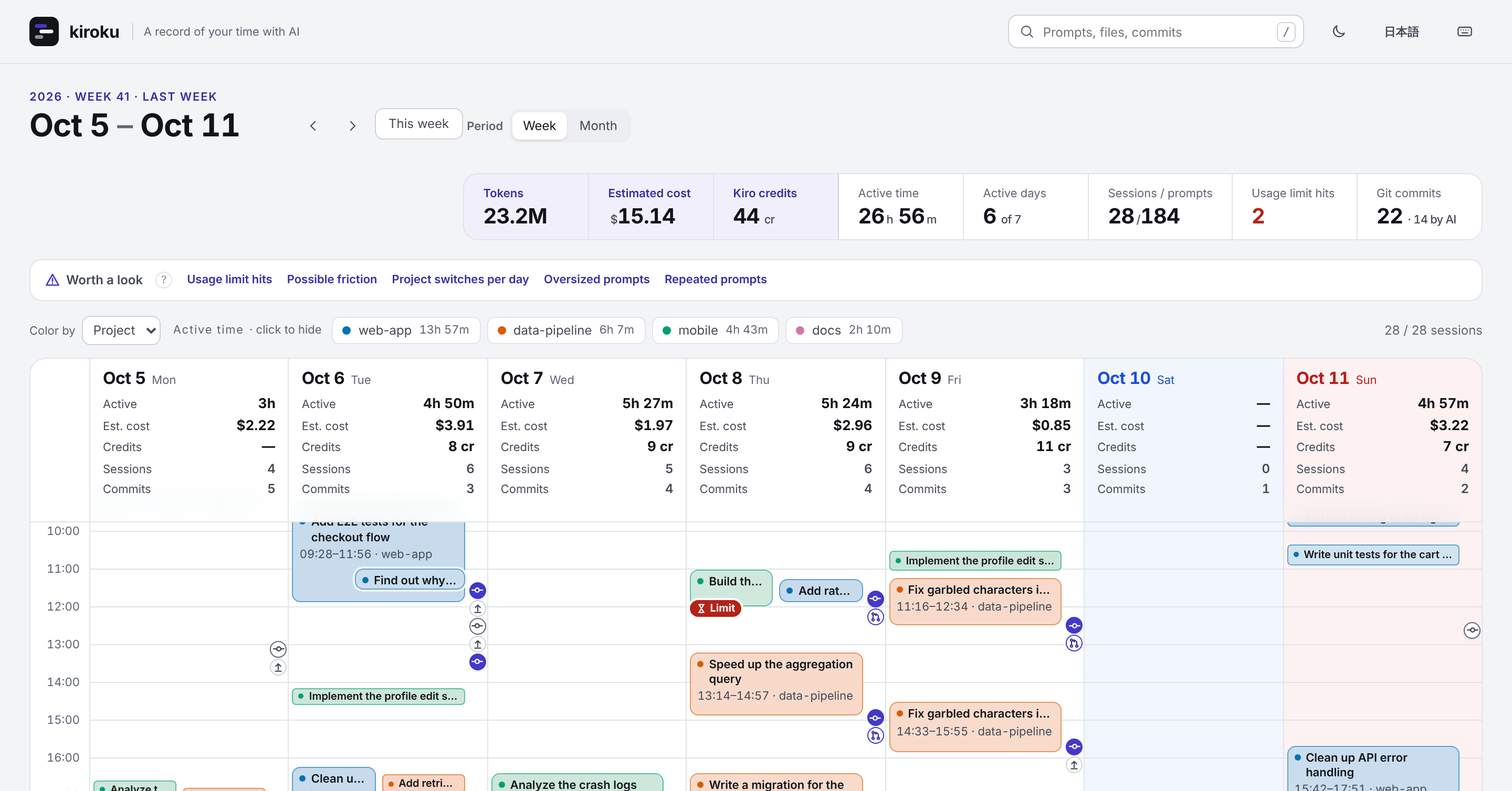
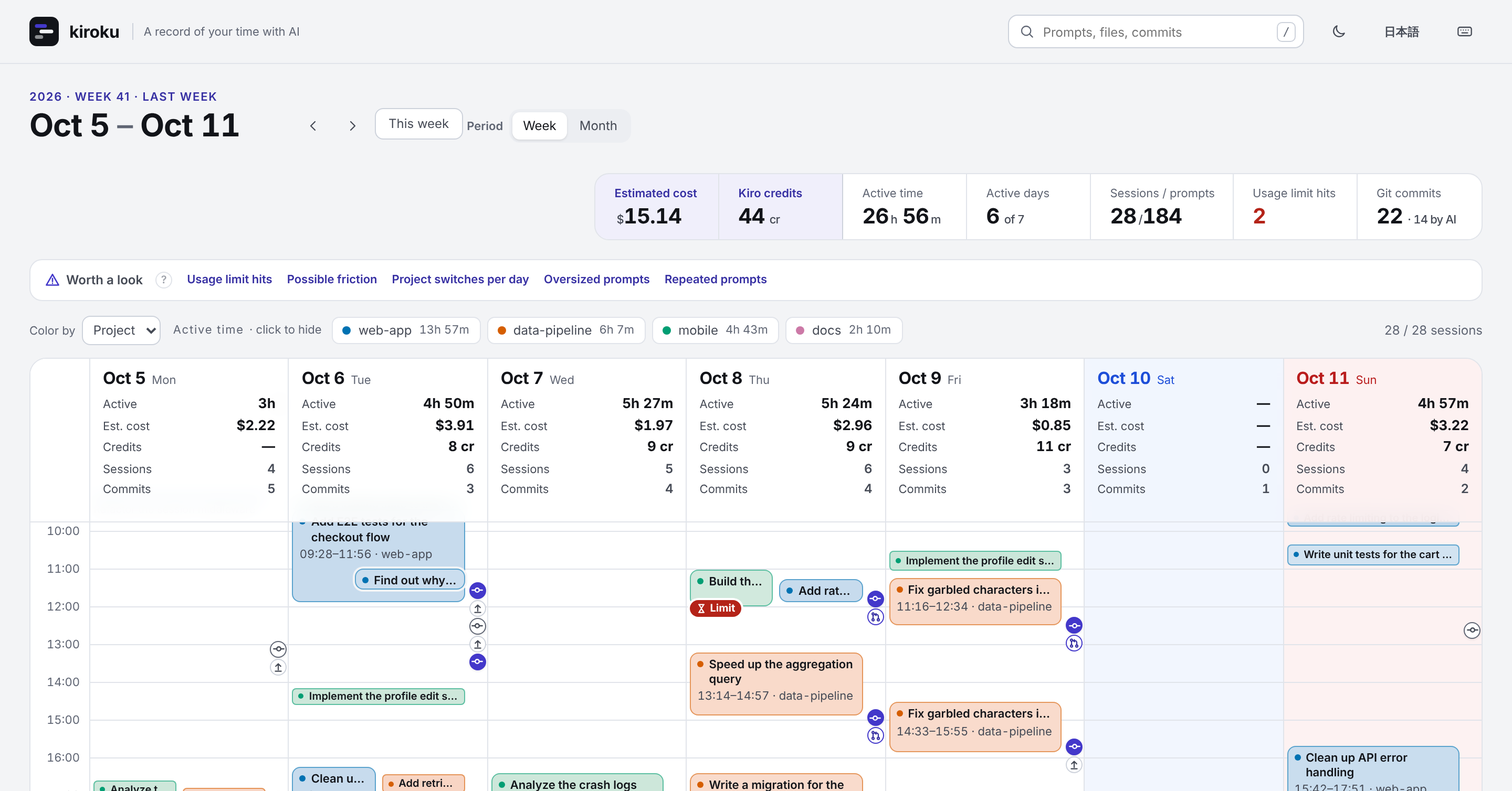
Calm the key figures so the calendar leads
From a design audit of the pace view:
- One pace box for cost and credits instead of two
- Tokens leave the key figures when the estimated cost can be shown
  (they stay in the cost breakdown, By model and day tooltips)
- The key figures wrap to a second row instead of cutting off values
  (Active days was cut off around 1000px wide and on phones before)
- "x N days" moves from the band to its tooltip and breakdown
- Month cells show the pace as plain muted text, explained under the
  calendar, instead of a dashed box on every day to come

diff --git a/internal/web/js/calendar.js b/internal/web/js/calendar.js
@@ -91,17 +91,22 @@ function kpis(){
     return `<${tg} class="kpi${cls ? " " + cls : ""}"${id ? ` type="button" data-metric="${id}" aria-haspopup="dialog"` : ""}${tt || id ? ` title="${esc(tt ? (id ? t("{text}. Click for the breakdown.", {text: tt}) : tt) : t("Click for the breakdown"))}"` : ""}><div class="k">${esc(k)}</div><div class="v">${v}</div></${tg}>`; };
   const u = w.usage || {}, days = w.days.filter(d => d.active).length, pj = projection(w);
   const n0 = soFar(), nd = n0 == null ? w.days.length : Math.min(n0, w.days.length); // 途中の週・月は、まだ来ていない日を分母に入れない（今日までの日数）
-  // 前の期間並みに収めるなら、残りの日 1 日あたりいくらか（pacing）。超えていれば、超えた分。良し悪しは言わない
-  const pc = pacing(w, pw), paceK = (x, id, f, cr) => !x ? "" : x.rest >= 0 // ちょうど同じ額なら、超過 +0 ではなく 1 日 0
-    ? kpi(cr ? t(M ? "Credits a day to match last month" : "Credits a day to match last week") : t(M ? "A day to match last month" : "A day to match last week"), `${f(x.per)}<small class="xd"> × ${esc(plural(pc.left, "day"))}</small>`, t(M ? "To stay at last month's total of {v}" : "To stay at last week's total of {v}", {v: f(x.ref, true)}), "key", id)
-    : kpi(cr ? t(M ? "Past last month's credits" : "Past last week's credits") : t(M ? "Past last month's total" : "Past last week's total"), `<small>+</small>${f(-x.rest)}`, t(M ? "Last month's total was {v}" : "Last week's total was {v}", {v: f(x.ref, true)}), "key", id);
+  // 前の期間並みに収めるなら、残りの日 1 日あたりいくらか（pacing）。費用とクレジットは 1 つの枠に並べる（枠を増やすと帯がカレンダーと主役を争うため）。
+  // 超えていれば、その分を「超過」と書く。良し悪しは言わない。ちょうど同じ額なら、超過 +0 ではなく 1 日 0
+  const pc = pacing(w, pw), paceK = () => {
+    const xs = [[pc.cost, (v, txt) => txt ? usd(v) : usdH(v)], [pc.credits, (v, txt) => txt ? cr(v) : `${crN(v)}<small> cr</small>`]].filter(([x]) => x);
+    const all = xs.every(([x]) => x.rest < 0);
+    const v = xs.map(([x, f]) => x.rest >= 0 ? f(x.per) : `<small>+</small>${f(-x.rest)}<small> ${esc(t("over"))}</small>`).join(`<small> · </small>`);
+    const ref = xs.map(([x, f]) => f(x.ref, true)).join(" · ");
+    return kpi(all ? t(M ? "Past last month's total" : "Past last week's total") : t(M ? "A day to match last month" : "A day to match last week"), v,
+      all ? t(M ? "Last month's total was {v}" : "Last week's total was {v}", {v: ref}) : t(M ? "To stay at last month's total of {v}, for the {n} left" : "To stay at last week's total of {v}, for the {n} left", {v: ref, n: plural(pc.left, "day")}), "key", pc.cost ? "pace" : "paceCr"); };
   const pace = pj ? t("If the pace of the first {n} days continues", {n: pj.days}) : "";
-  // トークン・目安コスト・月末の見込み・クレジットは、いちばん大事な数なので先頭にまとめて目立たせる
-  K.innerHTML = (u.tokens ? kpi(t("Tokens"), tok(u.tokens), "", "key", "tokens") + kpi(t("Estimated cost"), usdH(costOf(u)), costOf(u) == null ? NOPRICE : "", "key", "cost") : "") +
-    (pc ? paceK(pc.cost, "pace", (v, txt) => txt ? usd(v) : usdH(v)) : "") +
+  // 目安コスト・前の期間並みの目安・月末の見込み・クレジットは、いちばん大事な数なので先頭にまとめて色を付ける。
+  // トークンは費用の元の数で、推定費用の内訳（モデル別）とツールチップにあるので、帯には費用を見積もれないときだけ出す（枠が増えると帯がカレンダーと主役を争い、狭い幅で数字が切れる）
+  K.innerHTML = (u.tokens ? (costOf(u) == null ? kpi(t("Tokens"), tok(u.tokens), "", "key", "tokens") : "") + kpi(t("Estimated cost"), usdH(costOf(u)), costOf(u) == null ? NOPRICE : "", "key", "cost") : "") +
+    (pc ? paceK() : "") +
     (pj && pj.cost != null ? kpi(t("Month-end cost"), `<small>≈</small>${usdH(pj.cost)}`, pace, "key", "projection") : "") +
     (u.credits ? kpi(t("Kiro credits"), `${crN(u.credits)}<small> cr</small>`, "", "key", "credits") : "") +
-    (pc ? paceK(pc.credits, "paceCr", (v, txt) => txt ? cr(v) : `${crN(v)}<small> cr</small>`, true) : "") +
     (pj && pj.credits != null ? kpi(t("Month-end credits"), `<small>≈</small>${crN(pj.credits)}<small> cr</small>`, pace, "key", "projectionCr") : "") +
     kpi(t("Active time"), dur(w.active, true), "", "", "active") + kpi(t("Active days"), `${days}<small> ${esc(n0 == null ? t("of {n}", {n: nd}) : t("of {n} so far", {n: nd}))}</small>`, n0 == null ? "" : M ? t("{days} of the {n} so far (this month is still in progress)", {days, n: plural(nd, "day")}) : t("{days} of the {n} so far (this week is still in progress)", {days, n: plural(nd, "day")}), "", "days") +
     kpi(t("Sessions / prompts"), `${w.sessions}<small>/</small>${w.prompts}`, "", "", "sessions") +
@@ -167,7 +172,8 @@ function monthGrid(shown, ms, me, todayKey){
         ${pj.length ? `<span class="pj">${pj.map(([k,v])=>`<span style="flex:${v};--c:${colorOf(k)}"></span>`).join("")}</span>` : ""}</button>`;
     }
   }
-  h += `</div><div class="mlegend"><span class="nw">${esc(t("Less"))}</span> ${[0,.25,.5,.75,1].map(v=>`<i style="--h:${v}"></i>`).join("")} ${esc(t("More"))} · ${esc(matchMedia("(max-width:820px)").matches ? t("Shade = active time. Week totals include all 7 days. Tap a date or week to open it.") : t("Shade = active time. Week totals include all 7 days. Click a date or week to open it."))}</div>`;
+  const pk = pc ? ` · ${esc(t("Days to come: a day to match last month's total"))}` : ""; // スマホのマスでは「目安」の字を省くので、意味はここで言う
+  h += `</div><div class="mlegend"><span class="nw">${esc(t("Less"))}</span> ${[0,.25,.5,.75,1].map(v=>`<i style="--h:${v}"></i>`).join("")} ${esc(t("More"))} · ${esc(matchMedia("(max-width:820px)").matches ? t("Shade = active time. Week totals include all 7 days. Tap a date or week to open it.") : t("Shade = active time. Week totals include all 7 days. Click a date or week to open it."))}${pk}</div>`;
   T.innerHTML = h;
   T.querySelectorAll("[data-w]").forEach(b => b.onclick = () => { const [y,m,dd] = b.dataset.w.split("-").map(Number); st.week = new Date(y, m-1, dd); setMode("week"); });
 }

diff --git a/internal/web/style.css b/internal/web/style.css
@@ -81,9 +81,8 @@ kbd{font:var(--fs-xs)/1 var(--mono);padding:3px 5px;border-radius:5px;border:1px
 .wk .d{font:700 var(--fs-4xl)/1.1 var(--sans);letter-spacing:-.02em;font-variant-numeric:tabular-nums;white-space:nowrap;margin-top:6px}
 .wk .d span{color:var(--ink-3);font-weight:500}
 .wk .nav{display:flex;gap:4px;align-self:flex-end;margin-left:10px}
-.kpis{display:flex;gap:0;margin-left:auto;border:1px solid var(--rule);border-radius:14px;background:var(--surface);overflow:hidden;flex:none;max-width:100%} /* 入りきらなければ、切らずに次の行へ回る */
-.kpi{padding:10px 18px 9px;flex:1 1 auto;min-width:0;border-left:1px solid var(--rule)}
-.kpi:first-child{border-left:0}
+.kpis{display:flex;flex-wrap:wrap;gap:0;margin-left:auto;border:1px solid var(--rule);border-radius:14px;background:var(--surface);overflow:hidden;flex:none;max-width:100%} /* 入りきらなければ、数字を切らずに枠ごと次の行へ回る */
+.kpi{padding:10px 18px 9px;flex:1 0 auto;border-left:1px solid var(--rule);border-top:1px solid var(--rule);margin:-1px 0 0 -1px} /* 区切り線は左と上。行の先頭と 1 行目の線は、枠の外（overflow:hidden）に押し出して消す */
 .kpi .k{font-size:var(--fs-xs);color:var(--ink-3)} /* 狭いときは、見出しを切らずに折り返す */
 .kpi .v{min-width:82px;font:700 var(--fs-2xl)/1.3 var(--sans);letter-spacing:-.02em;font-variant-numeric:tabular-nums;white-space:nowrap}
 .kpi .v small{font-size:var(--fs-xs);font-weight:500;color:var(--ink-2);margin-left:2px}
@@ -323,8 +322,8 @@ a.pill{display:inline-flex;align-items:center;text-decoration:none}
 .allow{display:flex;flex-wrap:wrap;align-items:baseline;justify-content:space-between;gap:2px 6px;margin-top:6px;padding:5px 8px;border:1px dashed var(--rule-2);border-radius:8px;color:var(--ink-2);font-variant-numeric:tabular-nums}
 .allow span{font-size:var(--fs-xs);color:var(--ink-3)}
 .allow b,.head .allow b{font:600 var(--fs-sm)/1.3 var(--sans);color:var(--ink-2);letter-spacing:0;white-space:nowrap}
-.allow.s{margin:auto 0 2px;padding:3px 6px;border-radius:6px}.allow.s b{font-size:var(--fs-xs)}
-@media (max-width:820px){.allow.s span,.allow.s b+b,.kpi .v .xd{display:none}.allow.s{padding:2px 3px;justify-content:flex-start;overflow:hidden}.allow.s b{overflow:hidden;text-overflow:ellipsis}} /* スマホの月のマスは 1 つだけ（費用、なければクレジット）。帯の「× 残りの日数」は見出しの title に */
+.allow.s{margin:auto 0 2px;padding:0;border:0;color:var(--ink-3)}.allow.s b{font-size:var(--fs-xs);color:var(--ink-3)} /* 月のマスは同じ額が並ぶので、枠を付けずに薄い字だけ（枠が 17 個並ぶと飾りになる） */
+@media (max-width:820px){.allow.s span,.allow.s b+b{display:none}.allow.s{justify-content:flex-start;overflow:hidden}.allow.s b{overflow:hidden;text-overflow:ellipsis}} /* スマホの月のマスは 1 つだけ（費用、なければクレジット） */
 .cell .pj{display:flex;gap:2px;height:5px;border-radius:3px;overflow:hidden}
 .cell .pj span{background:var(--c);min-width:2px}
 .mlegend{display:flex;align-items:center;gap:8px;justify-content:flex-end;padding:10px 14px;font-size:var(--fs-xs);color:var(--ink-3);border-top:1px solid var(--rule)}
@@ -706,7 +705,7 @@ dialog.mdlg h3{margin:20px 0 8px}
   .panel.time .stat:last-child:nth-child(odd){grid-column:auto}
   .panel.shape{grid-column:span 2}
 }
-@media (max-width:1180px){.tag{display:none}.kpis{margin-left:0;width:100%}.kpi{flex:1;min-width:0}}
+@media (max-width:1180px){.tag{display:none}.kpis{margin-left:0;width:100%}}
 @media (max-width:1000px){.search kbd{display:none}.search input,.search input:focus{width:160px;padding-right:6px}}
 @media (max-width:480px){#help{display:none}} /* ショートカットの一覧は、キーボードのないスマホでは使わないので、ロゴと検索の場所を空ける */
 @media (max-width:820px){
@@ -730,9 +729,9 @@ dialog.mdlg h3{margin:20px 0 8px}
   .wk .nav{flex-wrap:wrap;row-gap:8px;margin-left:0;min-width:0} /* ボタンが増えても、狭い画面では折り返す */
   .kpis{display:grid;grid-template-columns:repeat(3,minmax(0,1fr))}
   .kpi:last-child:nth-child(3n+1){grid-column:1/-1}.kpi:last-child:nth-child(3n+2){grid-column:span 2} /* 最後の行に 1 つ・2 つだけ残ったら、空いたマスまで広げる */
-  .kpi{border-left:1px solid var(--rule);border-top:1px solid var(--rule);padding:8px 10px 7px}
+  .kpi{border-left:1px solid var(--rule);border-top:1px solid var(--rule);padding:8px 10px 7px;margin:0;min-width:0}
   .kpi:nth-child(-n+3){border-top:0}.kpi:nth-child(3n+1){border-left:0}
-  .kpi .k{font-size:var(--fs-2xs);white-space:normal;line-height:1.3}.kpi .v{font-size:var(--fs-xl)}
+  .kpi .k{font-size:var(--fs-2xs);white-space:normal;line-height:1.3}.kpi .v{font-size:var(--fs-xl);min-width:0;white-space:normal;overflow-wrap:anywhere} /* 3 列では、添え字（「/ 14（今日まで）」など）を切らずに折り返す */
   .kpi{display:flex;flex-direction:column;justify-content:space-between} /* 見出しが 2 行になっても、数字の高さをそろえる */
   .ocgrid{grid-template-columns:minmax(0,1fr);gap:4px}.ocarrow{transform:rotate(90deg);height:28px}.stats.s3{grid-template-columns:1fr 1fr}
   .occmp .stats{grid-template-columns:1fr 1fr}

diff --git a/internal/web/js/i18n.js b/internal/web/js/i18n.js
@@ -98,6 +98,7 @@ const JA_TEXT = {
   "Credits a day to match last week": "先週並みの 1 日のクレジット",
   "Credits a day to match the last period": "前の期間並みの 1 日のクレジット",
   "Days left": "残りの日数",
+  "Days to come: a day to match last month's total": "まだ来ていない日：先月の合計に収める 1 日の目安",
   "Est. cost": "推定費用",
   "If the remaining amount is small, spread the heavy work out or move some of it to another agent": "残りが少なければ、重い作業を分散するか、一部をほかのエージェントに回す",
   "If you keep to about {v} a day, this period ends near the last one. What you use for the rest of today comes out of the days ahead. The faded bars are the days still to come at that amount.": "1 日あたり約 {v} に抑えると、前の期間と同じくらいで終わります。今日このあと使う分は、明日からの目安から引かれます。薄い棒は、その額で進んだ場合の残りの日です。",
@@ -586,9 +587,9 @@ const JA_TEXT = {
   "To keep them, set {snippet}, or run {on} to let kiroku back them up to {dir} each time you open it (the agent's own files are not changed, nothing is sent anywhere, and {off} stops it)": "残すには、{snippet} を設定するか、{on} を実行して、開くたびに kiroku に {dir} へバックアップさせてください（エージェントのファイルは変えず、どこにも送りません。{off} で止められます）",
   "To match": "目安",
   "To open it on another device, run {cmd} and open the address it prints there.": "ほかの機器で開くときは、{cmd} を実行し、表示されたアドレスをその機器で開いてください。",
-  "To stay at last month's total of {v}": "先月の合計 {v} に収める場合",
+  "To stay at last month's total of {v}, for the {n} left": "先月の合計 {v} に収める場合（残り {n}）",
   "To stay at last month's total, about this much a day for the {n} left": "先月の合計に収めるなら、残り {n} は 1 日あたりこのくらい",
-  "To stay at last week's total of {v}": "先週の合計 {v} に収める場合",
+  "To stay at last week's total of {v}, for the {n} left": "先週の合計 {v} に収める場合（残り {n}）",
   "To stay at last week's total, about this much a day for the {n} left": "先週の合計に収めるなら、残り {n} は 1 日あたりこのくらい",
   "To turn it on, stop it (Ctrl+C in its terminal) and start it again without --no-ai, on the default address or a bare port such as :8485. With kiroku autostart, run kiroku autostart on again without KIROKU_NO_AI.": "オンにするには、止めて（ターミナルで Ctrl+C）、--no-ai を付けずに、既定のアドレスか :8485 のようなポートだけの指定で起動し直してください。kiroku autostart を使っているなら、KIROKU_NO_AI を付けずに kiroku autostart on をもう一度実行してください。",
   "To {branches} · from this computer": "{branches}へ · この PC から",
@@ -712,6 +713,7 @@ const JA_TEXT = {
   "official docs ↗": "公式ドキュメント ↗",
   "older Kiro CLI versions": "古い版の Kiro CLI",
   "oldest record {date}": "最も古い記録 {date}",
+  "over": "超過",
   "project": "プロジェクト",
   "prompt": "プロンプト",
   "pull requests": "プルリクエスト",

diff --git a/internal/web/js/metric.js b/internal/web/js/metric.js
@@ -91,7 +91,7 @@ const gitIn = (ws, we) => (META.git || []).filter(c => c.t >= ws && c.t < we);
 const calcH = parts => `<div class="mcalc">${parts.map(p => typeof p === "string" ? `<span>${p}</span>` : `<div><small>${esc(t(p[0]))}</small><b>${p[1]}</b></div>`).join("")}</div>`; // [名前, 値（HTML）] と記号（÷ =）
 // 前の期間並みに収める 1 日の目安（pacing）：前の期間の合計 − ここまで = 残り、÷ 残りの日。
 // 費用だけでなく、前の期間とここまでに残したもの（コミット）も並べる。費用が同じでも、残したものが減っていれば気づけるように
-function paceBody(w, k, m){
+function paceBody(w, k, m, brief){
   const pc = pacing(w, period().P), x = pc && pc[k]; if (!x) return null; const M = st.mode === "month", on = x.rest >= 0, C = k === "credits";
   // 見出しは上の帯と同じ言葉（超えたあとは「超過」。超えた分を 1 日の目安と読まれないように）
   const title = on ? (C ? t(M ? "Credits a day to match last month" : "Credits a day to match last week") : t(M ? "A day to match last month" : "A day to match last week"))
@@ -104,10 +104,12 @@ function paceBody(w, k, m){
   const pw = period().P, n = soFar(), gc = g => g && g.git ? g.git.commits : null, a = gc(pw), b = gc(w);
   const same = a == null || n == null ? null : pw.days.slice(0, Math.min(n, pw.days.length)).reduce((s, d) => s + (d.commits || 0), 0);
   const out = a == null || b == null ? "" : `<p class="note">${esc(t(M ? "Left behind: {a} commits last month ({s} by the same day), {b} so far this month." : "Left behind: {a} commits last week ({s} by the same day), {b} so far this week.", {a, s: same ?? "—", b}))}</p>`;
+  if (brief) return {title, body: calc + `<p class="note">${esc(note)}</p>`};
   return {title, big, body: calc + `<p class="note">${esc(note)}</p>` + out + mDays(w, m, x.rest > 0 ? {avg: x.per, tip: "≈ {v} to match the last period"} : null)};
 }
 const MB = {
-  pace(w){ return paceBody(w, "cost", BRK.pace); },
+  pace(w){ const r = paceBody(w, "cost", BRK.pace), c = r && paceBody(w, "credits", BRK.paceCr, true); // 帯は 1 つの枠なので、クレジットもここに
+    if (r && c) r.body += `<h3>${esc(t("Kiro credits"))}</h3>` + c.body; return r; },
   paceCr(w){ return paceBody(w, "credits", BRK.paceCr); },
   commits(w, {ws, we}){ // Git commits：日ごと・プロジェクトごと・AI のエージェントごと・だれが・一覧
     const cs = gitIn(ws, we).sort((a,b) => b.t - a.t), g = w.git || {}; if (!cs.length) return null;

diff --git a/docs/guide.md b/docs/guide.md
@@ -67,7 +67,7 @@ The old forms `kiroku --serve`, `--json`, `-o` and `--weekly` / `--monthly` have
 - The vertical week calendar shows sessions as bars. The more messages per minute, the darker the bar, and sessions that overlap in time are placed side by side. Short bars show their name in smaller type, and bars too short for that show it just below when there is room. In narrow bars, names wrap between words and are shortened with "…"; a bar too narrow for the first word (or about 4 letters) shows its start time instead, or only its color when even that does not fit. Hover or click it for the name
 - Choose **Week** or **Month** in the **Period** group at the top. The month calendar shows each day's active time as color intensity and the project breakdown as thin bars. Each day lists its active time, estimated cost ("Est. cost"; tokens when no model used is in the price table) or credits, sessions and Git commits, each labeled, and the column on the left shows the same for each week (on phones, only active time and usage, with cost and credits on their own lines when there are both). Estimated cost and credits follow the week or month shown: cost when it has only tokens, credits when it has only credits, and both on every day (with "—" where there are none) when it has both. Cost sits in the same column as commits, so a day with much cost and few commits stands out. Point at a day or week to also see tokens. In a week or month in progress, each day still to come shows "To match": about how much a day keeps the period at the last one's total (see "A day to match the last period" in the metrics table). The day headings of the week calendar show the same. Click a date, or "W##" on the left, to go to that week in the week calendar
 - The calendar describes recorded activity, not progress, completion or productivity
-- Above the calendar, the key figures for the week or month are shown. The most important ones come first, on a tinted background: Tokens, Estimated cost, A day to match last week (or month), Month-end cost (estimate), Kiro credits, its own daily reference and Month-end credits (estimate); the daily references appear only while the week or month is in progress, and the month-end estimates only in the month view (see the metrics table). Then come Active time, Active days, Sessions / prompts, Usage limit hits and Git commits with how many AI ran, such as "22 · 14 by AI". Active days counts days with any active time; for a week or month still in progress it is out of the days so far, including today (such as "6 of 6 so far"), not the whole period. Items with no records are not shown. When the figures don't fit next to the period's name, they move to their own row
+- Above the calendar, the key figures for the week or month are shown. The most important ones come first, on a tinted background: Estimated cost, A day to match last week (or month), Month-end cost (estimate), Kiro credits and Month-end credits (estimate). The daily reference shows the estimated cost and the credits side by side in one box, and appears only while the week or month is in progress; the month-end estimates appear only in the month view (see the metrics table). Tokens appear here only when the estimated cost can't be shown (no model used is in the price table); otherwise they are in the estimated cost's breakdown, "By model" in the summary and the tooltip of each day. Then come Active time, Active days, Sessions / prompts, Usage limit hits and Git commits with how many AI ran, such as "22 · 14 by AI". Active days counts days with any active time; for a week or month still in progress it is out of the days so far, including today (such as "6 of 6 so far"), not the whole period. Items with no records are not shown. When the figures don't fit next to the period's name, they move to their own row, and continue on a second row rather than being cut off
 - Click a key figure, or any figure in the summary's panels, to open its breakdown in a dialog. What the metric counts is right under the figure; the finer points and what it doesn't tell you are at the end:
   - Most figures: by day, by agent, by project and, for tokens and estimated cost, by model, then the top sessions (press one to open its details). The day, agent, project and model rows come from the same totals as the figure, so they add up to it; the session figures cover each whole session, including any part outside the period
   - The month-end estimates show how they are worked out (so far ÷ days so far × days in the month), with the days still to come drawn as hatched bars at the current pace
@@ -176,7 +176,7 @@ Things to know:
 | Estimated cost | Usage priced at public API rates. For sessions where Claude Code records its own cost (`cost-state`), that value is used (this also covers price changes, new models and calls not left in the history, such as auto-compaction), except where it records 0 for a model the history shows was in fact used, and for Sonnet 5.5 in records from Claude Code before 2.1.296, which priced its cache reads too high. For Kiro Crew turns run on backends other than kiro-cli, the USD cost Crew records is used (turns on its Claude Code and Codex backends are counted from those agents' own history instead). Otherwise, tokens in the history are multiplied by the kiroku price table, doubled for responses recorded in fast mode (`speed: "fast"`) and multiplied by 1.1 for US-only inference (`inference_geo: "us"`), plus $10 per 1,000 web searches recorded in the response's usage (`server_tool_use.web_search_requests`; the multipliers don't apply to searches). Claude Haiku 5.5 is priced at its higher rates for a response whose prompt (new input plus cache writes and reads) was over 100K tokens. Codex tokens are priced at OpenAI's rates for the service tier the thread was set to when the response was recorded (standard, Fast, Ultrafast or Flex; uncached input, cached input, cache writes and output), at the long-context rates for a response whose input was over 272K tokens. gpt-6-sol and gpt-6-luna run at Fast by default in Codex, which costs about twice the standard rates (Ultrafast about six times). Where every model used is missing from the price table, it is shown as "—" rather than $0.00. It differs from what a subscription bills |
 | Month-end cost (estimate) | Shown only in the month view while the month is in progress: the estimated cost from the 1st through today, divided by the days so far (including today) and multiplied by the days in the month. It assumes the pace so far continues, and is not shown for the first 7 days or on the last day. For a period in progress, comparisons with the previous period use the same days of it (for example "vs Sep 1 – Sep 20"). AI commits and pull requests have no daily figures, so they are not compared while a period is in progress |
 | Month-end credits (estimate) | The same projection for Kiro credits, in its own box next to the estimated cost. Tokens and credits are separate allowances, so they are never added together or shown as one figure |
-| A day to match the last period | Shown at the top for a week or month in progress, as "A day to match last week" (or last month): the previous period's total estimated cost minus the estimate so far (today included), divided by the days left after today. Each day still to come in the calendar shows the same amount, as "To match", in a dashed box. Once this period has passed the previous total, the top shows "Past last week's total" with the difference instead, and the days to come show nothing. Not shown on the last day, or when the previous period has no estimated cost. Its breakdown also puts the commits of both periods side by side (the previous one also up to the same day). What you use for the rest of today comes out of the days ahead. It is a reference from your own last period, not a budget, and kiroku asks you to set none. Kiro credits get the same reference in their own box ("Credits a day to match the last period") |
+| A day to match the last period | Shown at the top for a week or month in progress, as "A day to match last week" (or last month): the previous period's total estimated cost minus the estimate so far (today included), divided by the days left after today. Each day still to come in the calendar shows the same amount, as "To match", in a dashed box. Once this period has passed the previous total, the top shows "Past last week's total" with the difference instead, and the days to come show nothing. Not shown on the last day, or when the previous period has no estimated cost. Its breakdown also puts the commits of both periods side by side (the previous one also up to the same day). What you use for the rest of today comes out of the days ahead. It is a reference from your own last period, not a budget, and kiroku asks you to set none. Kiro credits get the same reference ("Credits a day to match the last period"), shown next to the cost in the same box and in its breakdown |
 | Tokens | Input, output, cache reads and cache writes combined. Because one response is recorded across several lines, they are grouped by message ID before counting. For Claude Code, calls to the advisor tool's model are included and priced at that model's rates |
 | Read from cache | The share of input read from cache |
 | By model | Estimated cost and tokens per model |

diff --git a/README.ja.md b/README.ja.md
@@ -37,7 +37,7 @@ kiroku serve    # http://localhost:8484/ で画面を開く
 
 ## できること
 
-**すべてのセッションをカレンダーに。** いつ、どのプロジェクトで、何を頼んだかを週・月で表示し、日ごとの稼働時間・トークン・費用・Git コミットを並べます。作業の記録で、進み具合を示すものではありません。
+**すべてのセッションをカレンダーに。** いつ、どのプロジェクトで、何を頼んだかを週・月で表示し、日ごとの稼働時間・推定費用・Git コミットを並べます。作業の記録で、進み具合を示すものではありません。
 
 ![週のカレンダー（ダミーデータ）](docs/screenshot.png)
 
@@ -45,13 +45,13 @@ kiroku serve    # http://localhost:8484/ で画面を開く
 
 <img src="docs/session.png" alt="セッションの詳細（ダミーデータ）" width="560">
 
-**どの数字も開ける。** 上の数字や週のまとめの数字（トークン・推定費用・Git コミットなど）を押すと、日・エージェント・プロジェクト・モデルごとの内訳と、その元になったセッション・コミット・プロンプトが見られます。
+**どの数字も開ける。** 上の数字や週のまとめの数字（推定費用・Git コミットなど）を押すと、日・エージェント・プロジェクト・モデルごとの内訳と、その元になったセッション・コミット・プロンプトが見られます。
 
 **見直す候補。** 基準を超えた指標を、上の数字の下に並べます。押すと、何が起きたか、なぜ大事か、元になったセッション、8 週の推移、試すとよいことが、カレンダーを離れずに見られます。
 
 <img src="docs/worth.png" alt="見直す候補から開いた指標（ダミーデータ）" width="560">
 
-**費用と成果を並べて。** プロジェクトごとの時間・トークン・推定費用（Claude Code・Codex・Kiro Crew の Kiro 以外のバックエンドは公開 API の料金で計算）・クレジットを、コミット数やコミットあたりの費用と並べます。記録する内容はエージェントによって違います。[エージェントごとに記録されること](docs/guide.md#what-each-agent-records)はガイドにまとめています。
+**費用と成果を並べて。** プロジェクトごとの時間・トークン・推定費用（Claude Code・Codex・Kiro Crew の Kiro 以外のバックエンドは公開 API の料金で計算）・クレジットを、コミット数やコミットあたりの費用と並べます。週や月の途中なら、上の数字とまだ来ていない日に、前の期間と同じ費用に収める 1 日の目安を出します（予算の設定は要りません）。記録する内容はエージェントによって違います。[エージェントごとに記録されること](docs/guide.md#what-each-agent-records)はガイドにまとめています。
 
 ![プロジェクトごとの週のまとめ（ダミーデータ）](docs/summary.png)
 

diff --git a/README.md b/README.md
@@ -37,7 +37,7 @@ The installer checks the download against `checksums.txt` and, with the [GitHub 
 
 ## What you get
 
-**Every session on a calendar.** When, in which project and what you asked, by week or month, with each day's active time, tokens, cost and Git commits. It records activity, not progress.
+**Every session on a calendar.** When, in which project and what you asked, by week or month, with each day's active time, estimated cost and Git commits side by side. It records activity, not progress.
 
 ![The week calendar (dummy data)](docs/screenshot.png)
 
@@ -45,13 +45,13 @@ The installer checks the download against `checksums.txt` and, with the [GitHub 
 
 <img src="docs/session.png" alt="Session details (dummy data)" width="560">
 
-**Every number opens up.** Click any figure, at the top or in the weekly summary, such as tokens, estimated cost or Git commits, to see it by day, agent, project and model, with the sessions, commits or prompts behind it.
+**Every number opens up.** Click any figure, at the top or in the weekly summary, such as estimated cost or Git commits, to see it by day, agent, project and model, with the sessions, commits or prompts behind it.
 
 **What's worth a look.** Metrics that crossed a threshold are listed under the key figures. Press one to see what was observed, why it matters, the sessions behind it, an 8-week trend and what to try, without leaving the calendar.
 
 <img src="docs/worth.png" alt="A flagged metric opened from Worth a look (dummy data)" width="560">
 
-**Cost next to output.** Time, tokens, estimated cost (Claude Code, Codex and Kiro Crew's non-Kiro backends, at public API rates) and credits by project, next to commits and cost per commit. Not every agent records everything; the guide lists [what each agent records](docs/guide.md#what-each-agent-records).
+**Cost next to output.** Time, tokens, estimated cost (Claude Code, Codex and Kiro Crew's non-Kiro backends, at public API rates) and credits by project, next to commits and cost per commit. While a week or month is in progress, the key figures and the days still to come show how much a day keeps it at the last one's total, with no budget to set. Not every agent records everything; the guide lists [what each agent records](docs/guide.md#what-each-agent-records).
 
 ![Weekly summary by project (dummy data)](docs/summary.png)
 

diff --git a/changes/calendar-pace.added.md b/changes/calendar-pace.added.md
@@ -1,1 +1,1 @@
-- "A day to match last week" (or last month) in the key figures of a week or month in progress: the previous period's total estimated cost minus the estimate so far, divided by the days left. Each day still to come in the calendar shows the same amount as "To match" in a dashed box, and its breakdown puts the commits of both periods side by side. Once the period passes the previous total, the key figures show by how much. Kiro credits get the same reference in their own box. It needs no budget setting
+- "A day to match last week" (or last month) in the key figures of a week or month in progress: the previous period's total minus the total so far, divided by the days left, for estimated cost and Kiro credits side by side. Each day still to come in the week calendar shows the same amount as "To match" in a dashed box (the month calendar shows it as plain text, explained under the calendar), and its breakdown puts the commits of both periods side by side. Once the period passes the previous total, the key figures say by how much. It needs no budget setting

diff --git a/changes/calendar-pace.changed.md b/changes/calendar-pace.changed.md
@@ -1,1 +1,2 @@
-- The calendar's day headings, month cells and week totals show estimated cost instead of tokens, next to sessions and commits, so a day with much cost and few commits stands out. Tokens move to the tooltip; when no model used is in the price table, tokens are shown as before
+- The calendar's day headings, month cells and week totals show estimated cost ("Est. cost") instead of tokens, next to sessions and commits, so a day with much cost and few commits stands out. Tokens move to the tooltip; when no model used is in the price table, tokens are shown as before
+- The key figures above the calendar no longer show Tokens when the estimated cost can be shown; tokens stay in the estimated cost's breakdown, "By model" and the day tooltips. When the figures don't fit, they continue on a second row instead of being cut off (before, Active days was cut off around 1000px wide and on phones)
